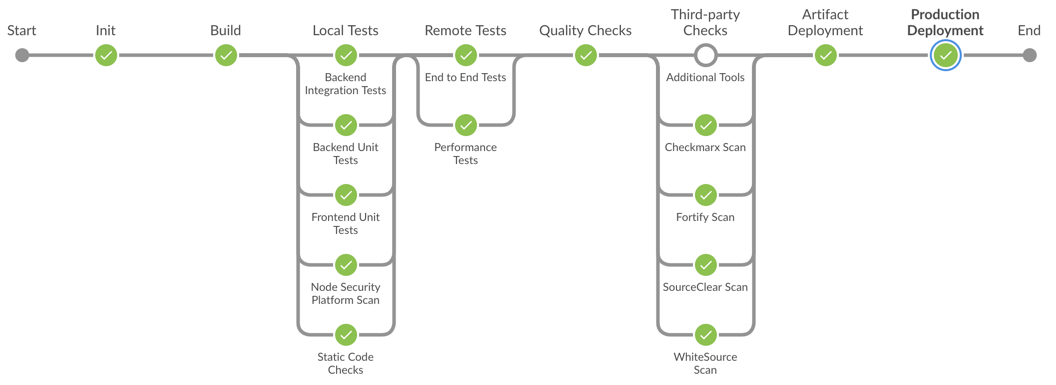
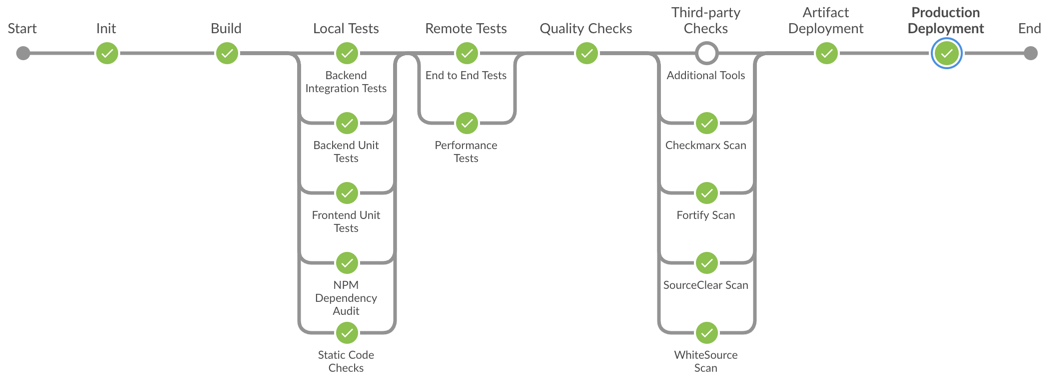
Add NPM audit stage

diff --git a/configuration.md b/configuration.md
@@ -13,6 +13,7 @@
     * [integrationTests](#integrationtests)
     * [frontendUnitTests](#frontendunittests)
     * [endToEndTests](#endtoendtests)
+    * [npmAudit](#npmaudit)
     * [performanceTests](#performancetests)
     * [s4SdkQualityChecks](#s4sdkqualitychecks)
     * [checkmarxScan](#checkmarxscan)
@@ -184,6 +185,33 @@ endToEndTests:
      credentialId: e2e-test-user-cf
      parameters: '--tag scenario2 --tag scenario3'
 ```
+
+#### npmAudit
+
+This stage uses the [`npm audit`](https://docs.npmjs.com/cli/audit) command to check for known vulnerabilities in dependencies.
+
+The pipeline fails if one of the following thresholds is exceeded:
+
+* Zero vulnerabilities of category _critical_
+* One vulnerability of category _high_
+* Five vulnerabilities of category _moderate_
+
+In case you audited an advisory, and it turns out to be a false positive, you can mark it as _audited_ by adding its id to the `auditedAdvisories` in the stage configuration.
+A false positive in this case is when you are confident that your application is not affected in any way by the underlying bug or vulnerability.
+
+Example:
+
+```yaml
+npmAudit:
+  auditedAdvisories:
+    - "123"
+    - "124"
+    - "777"
+```
+
+Please note that the __quotation marks are required__ in order to assure the id is parsed as a string.
+
+The pipeline will warn you, if an "audited advisory" is not actually detected in your project.
 
 #### performanceTests
 

diff --git a/doc/architecture/decisions/node-package-lock.md b/doc/architecture/decisions/node-package-lock.md
@@ -1,0 +1,35 @@
+# Treatment of application with a frontend that don't have a package lock file
+
+## Status
+
+Accepted
+
+## Context
+
+The node package manager (npm) creates a so called ["lock file"](https://docs.npmjs.com/files/package-locks) when running `npm install`.
+The recommended action is to commit this file to version control, as stated by the command itself:
+
+```
+$ npm install
+npm notice created a lockfile as package-lock.json. You should commit this file.
+```
+
+Some npm commands, which are part of the pipeline, such as `ci` and `audit` require that a package lock file exists.
+
+Thus, if a project lacks the package lock file, there are tree options:
+
+* Refuse to build the project, which enforces the recommended practice of committing the lock file
+* Silently create a package lock file as part of the pipeline
+* Avoid npm commands which require a package lock
+    * Would disable the npm audit stage
+
+## Decision
+
+If a project has a `package.json` file, but no package lock, we create a package lock file as part of the pipeline and warn the user about this.
+The created package lock file is not archived as part of the pipeline build artifacts.
+
+## Consequences
+
+* Jenkins builds don't fail when developers forget to commit the package lock
+* If the developers chose not to commit the package lock long term, the build is less reliable
+* npm audit can run always on projects with a frontend component
